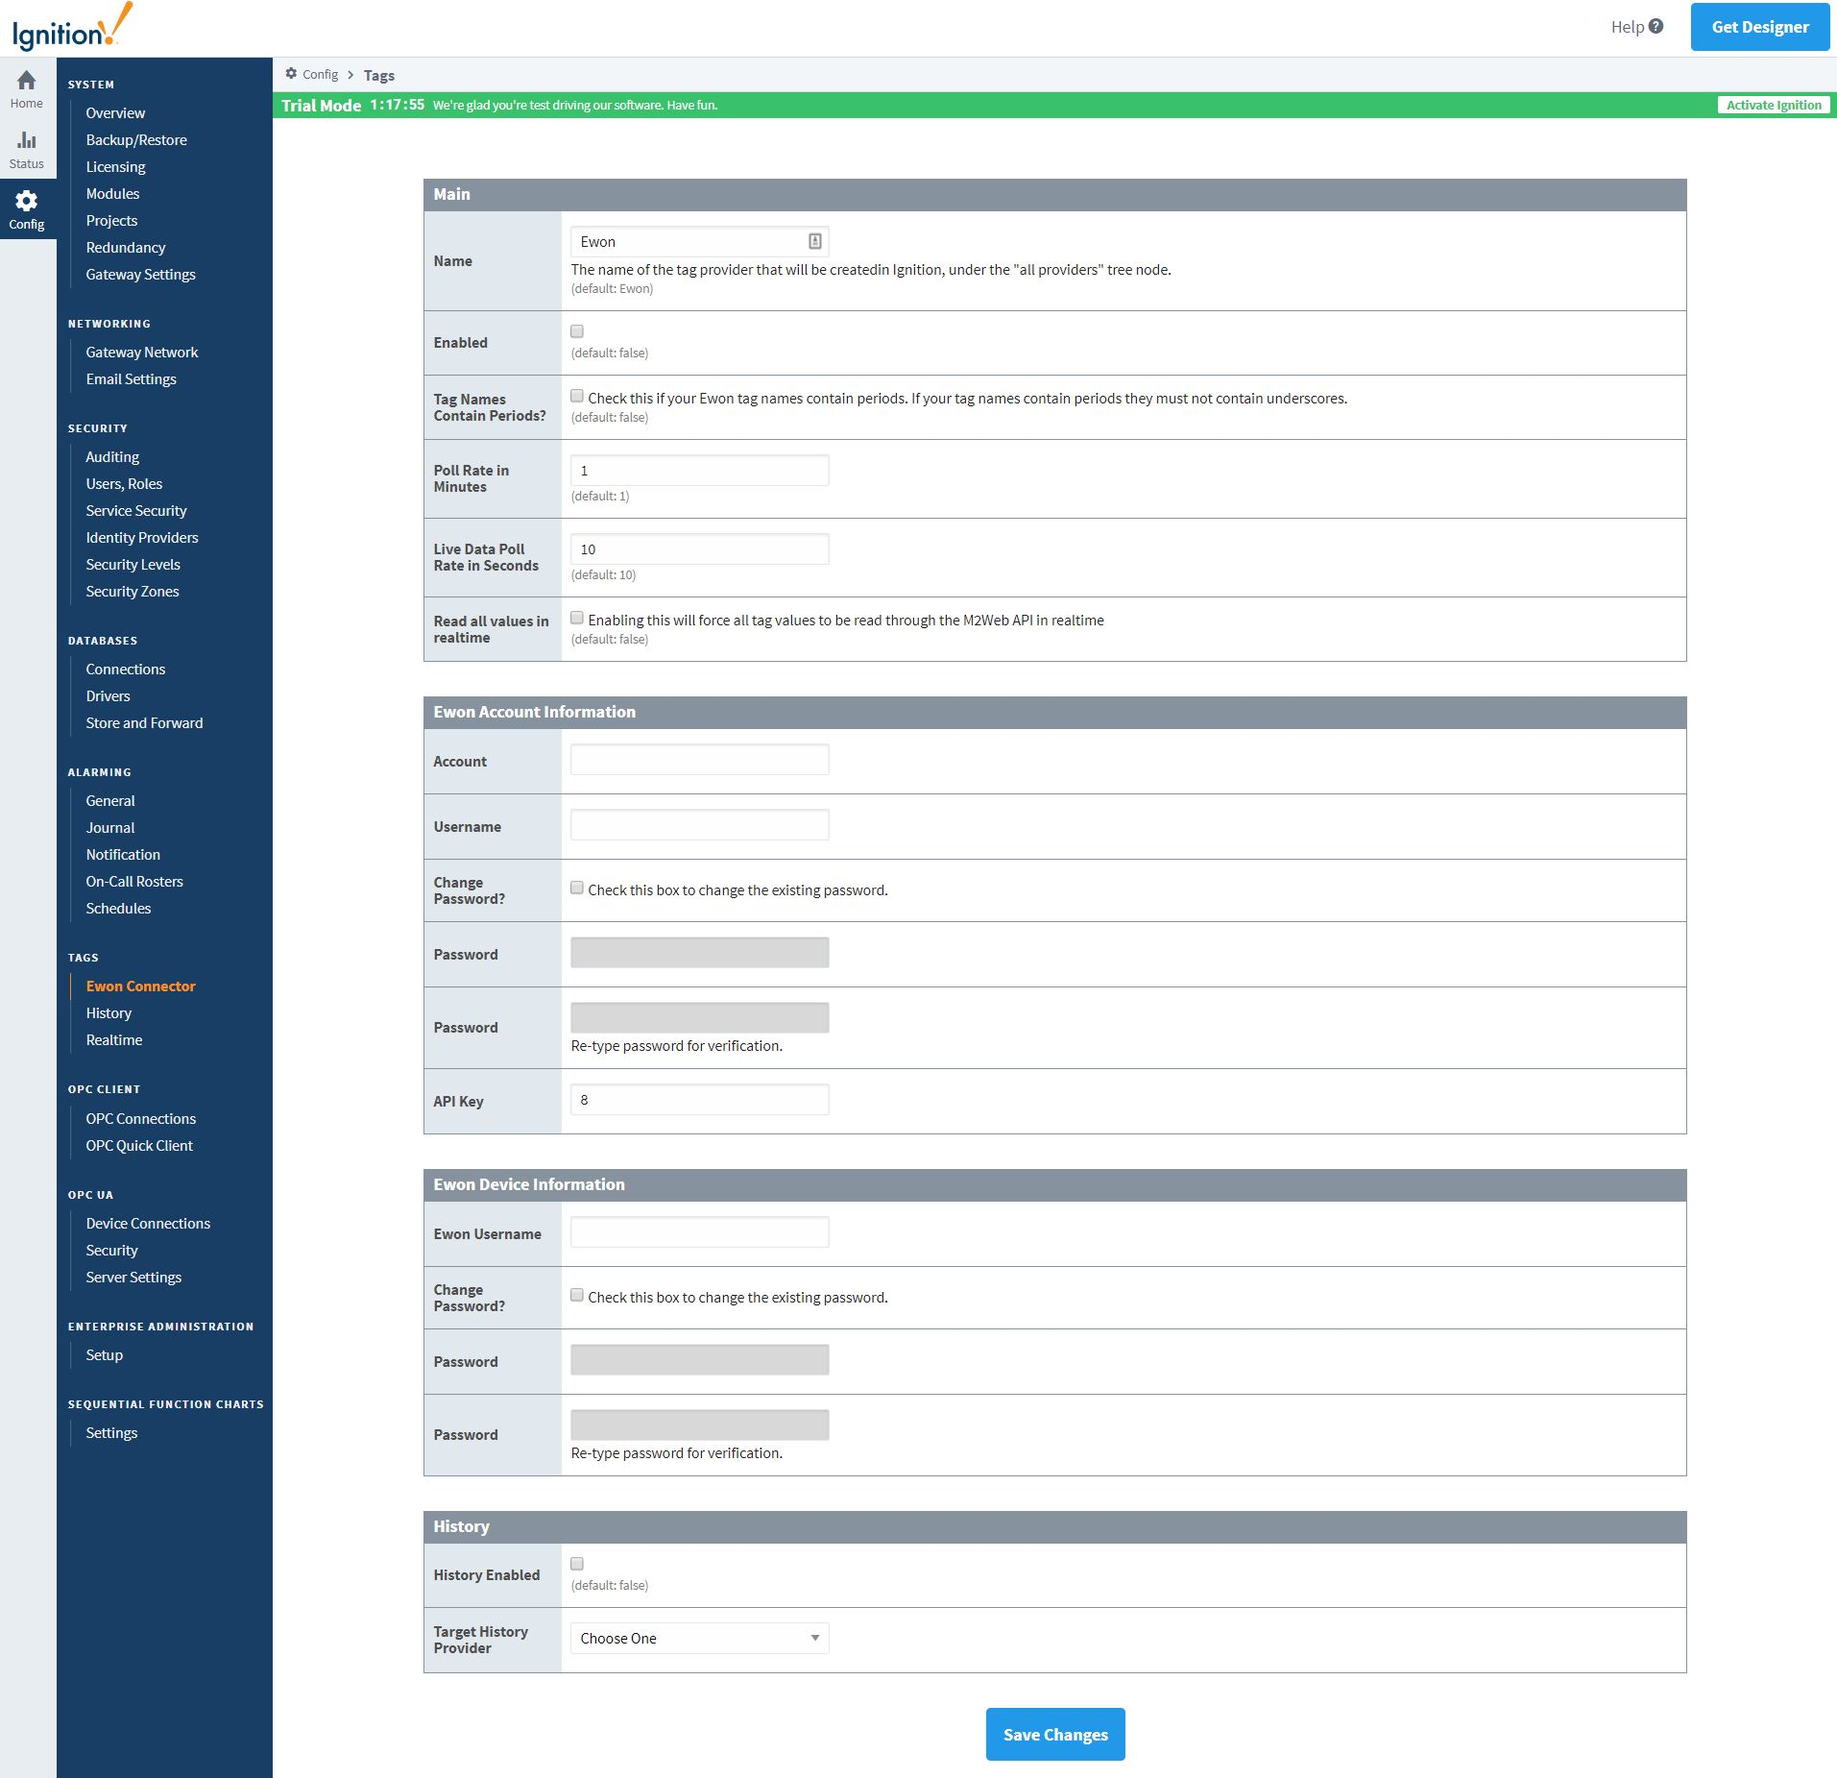
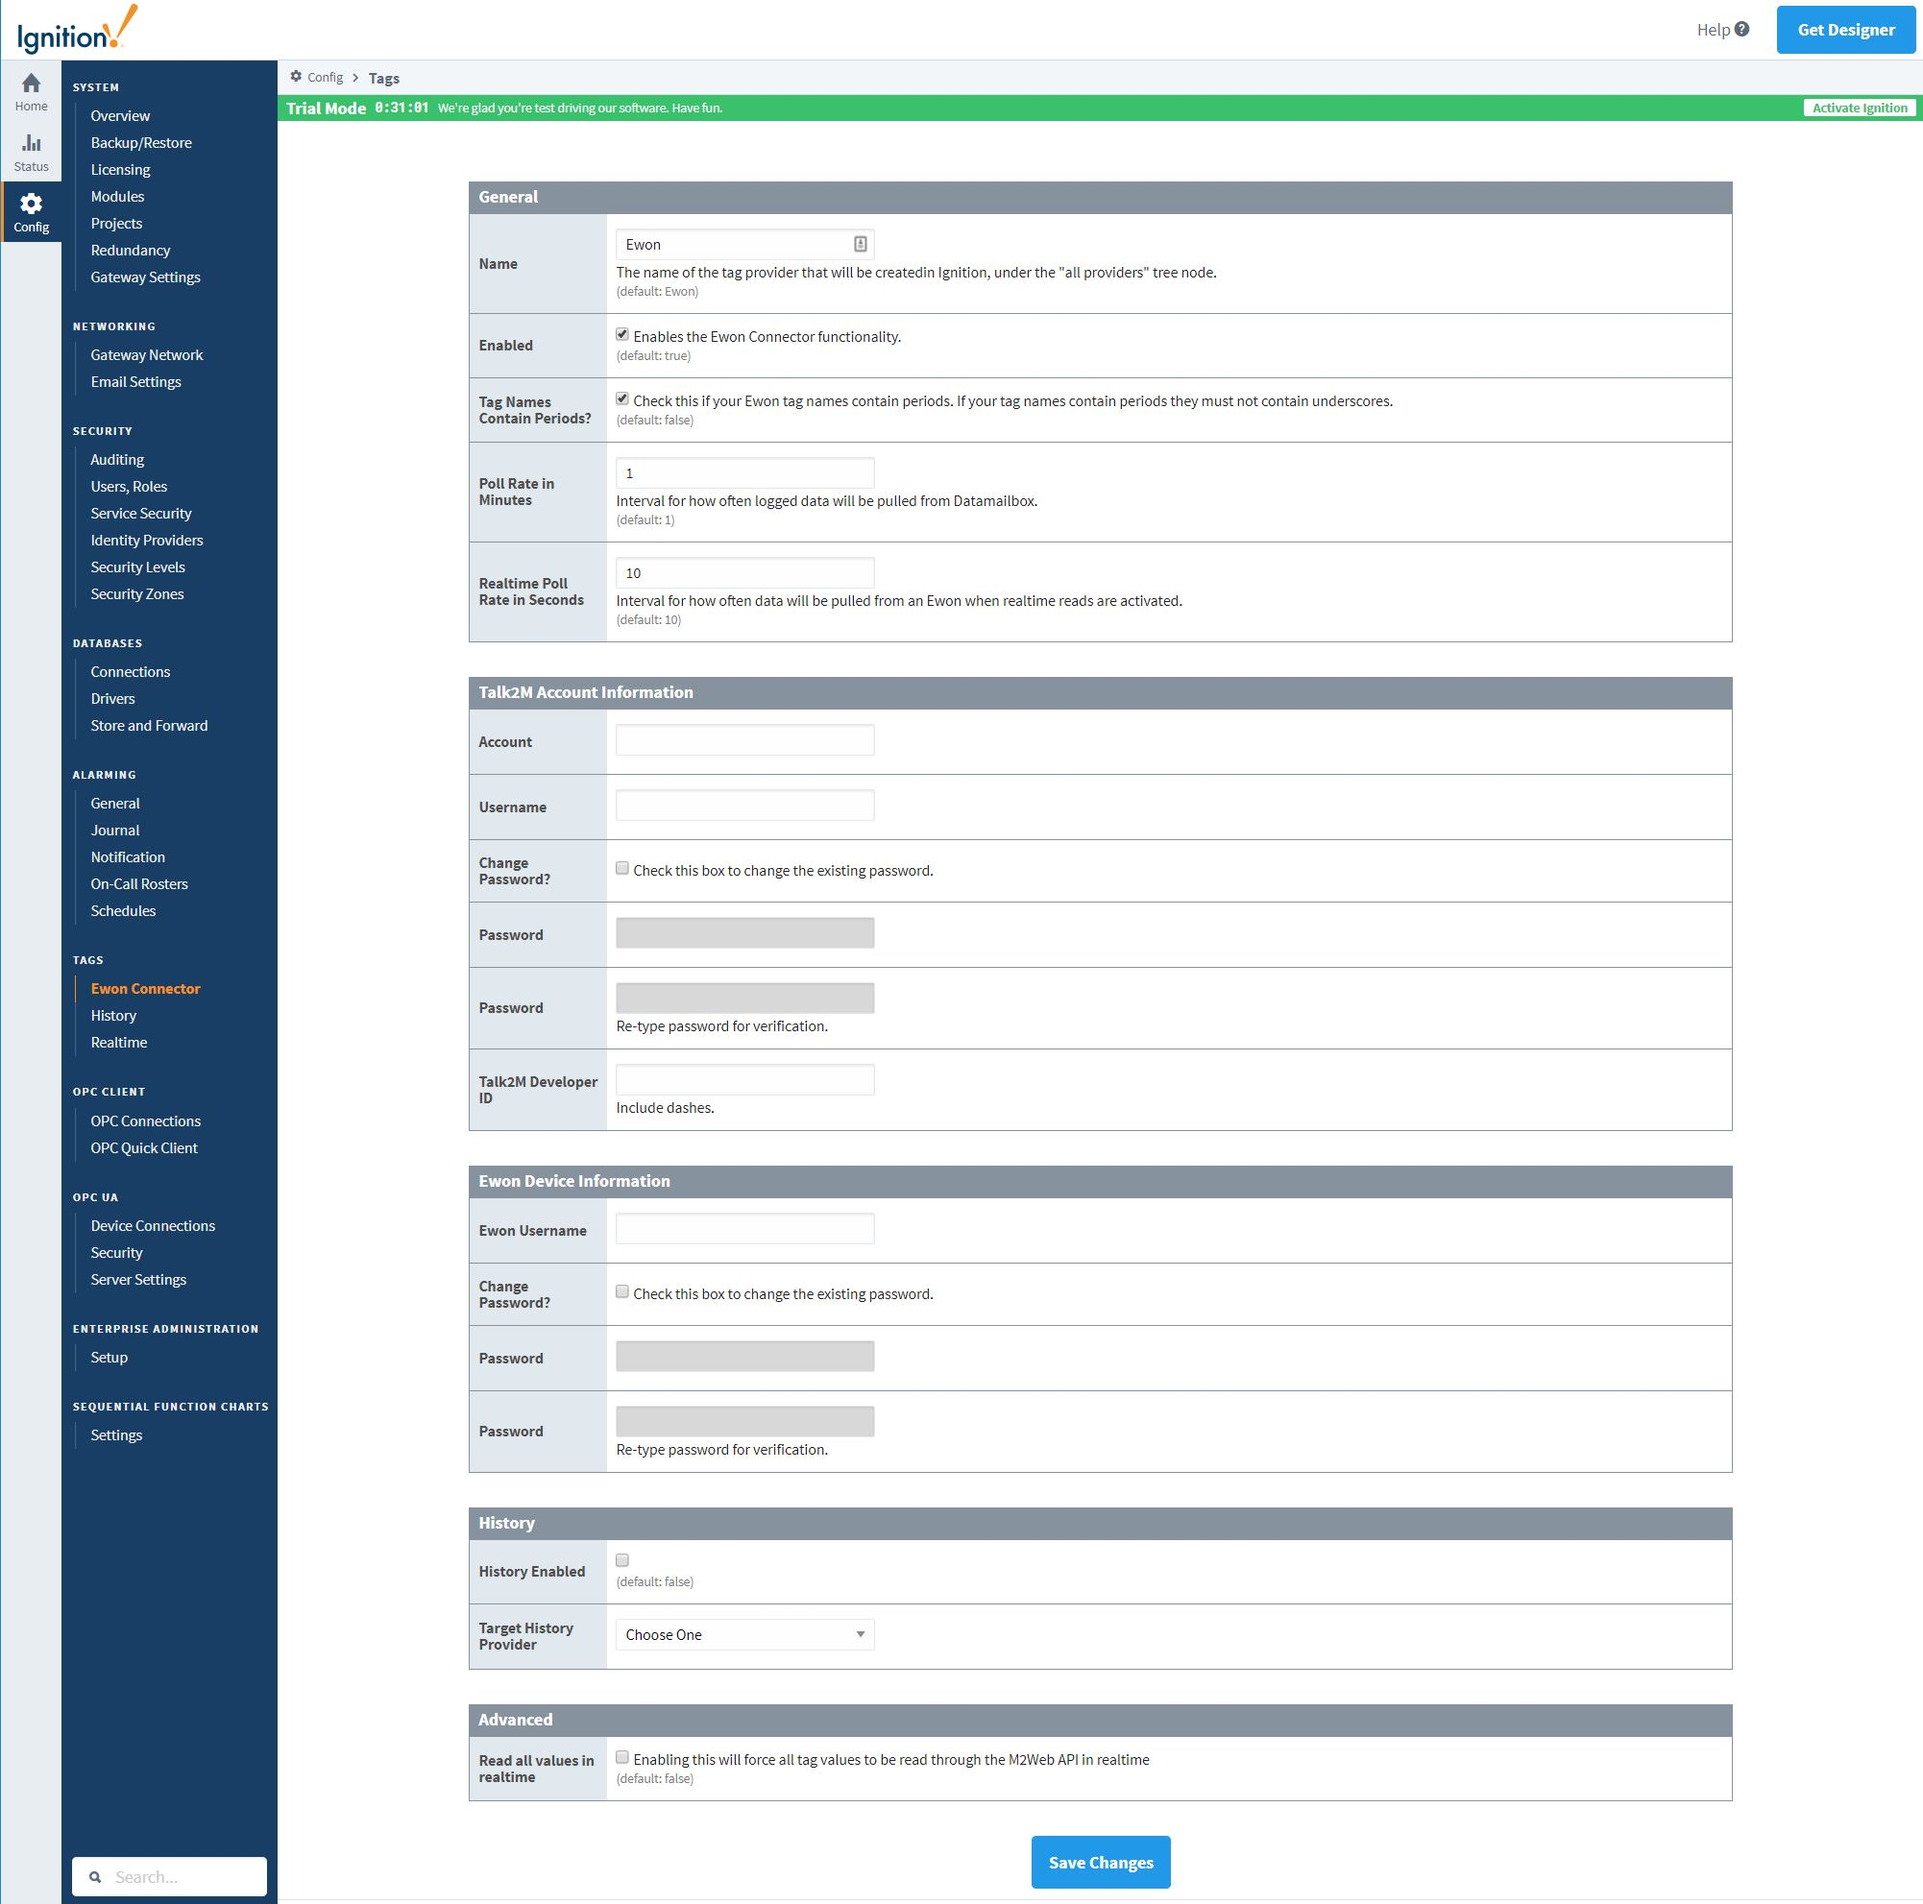
Renamed Ewon Account to Talk2M Account
Clarify account settings user interface.

Changed region(s): [[0.0, 0.0, 1.0, 1.0]]

diff --git a/readme.md b/readme.md
@@ -124,7 +124,7 @@ With the module successfully installed, a new `Ewon Connector` page will be adde
    * **Poll Rate in Minutes** - Interval for how often data will be pulled from Datamailbox.
    * **Realtime Poll Rate in Seconds** - Interval for how often data will be pulled from an Ewon when realtime reads are activated.
 
-* **Ewon Account Information**
+* **Talk2M Account Information**
    * **Account** - Your Talk2M account name.
    * **Username** - Your Talk2M user name.
    * **Password** - Your Talk2M password.
@@ -225,7 +225,7 @@ There are several reasons tags may not be populated into Ignition. Please follow
 
    <img src="https://raw.githubusercontent.com/hms-networks/IgnitionEwonConnector/Ignition-8-master/images/auth_error.JPG" alt="Ignition Authentication Error" width="1000"/>
 
-   * If you see this log error, check your Ewon Account information entered on the `Ewon Connector` configuration page. _Note: Any changes done on this page require a restart of the connector module or Ignition. You can restart the module by navigating to `Config` > `Modules` and clicking `restart` next to the module._
+   * If you see this log error, check your Talk2M Account information entered on the `Ewon Connector` configuration page. _Note: Any changes done on this page require a restart of the connector module or Ignition. You can restart the module by navigating to `Config` > `Modules` and clicking `restart` next to the module._
 4. If tag values are still not populated in Ignition, please contact [support](#support)
 
 ### Changes on the Ewon Connector page do not take effect
